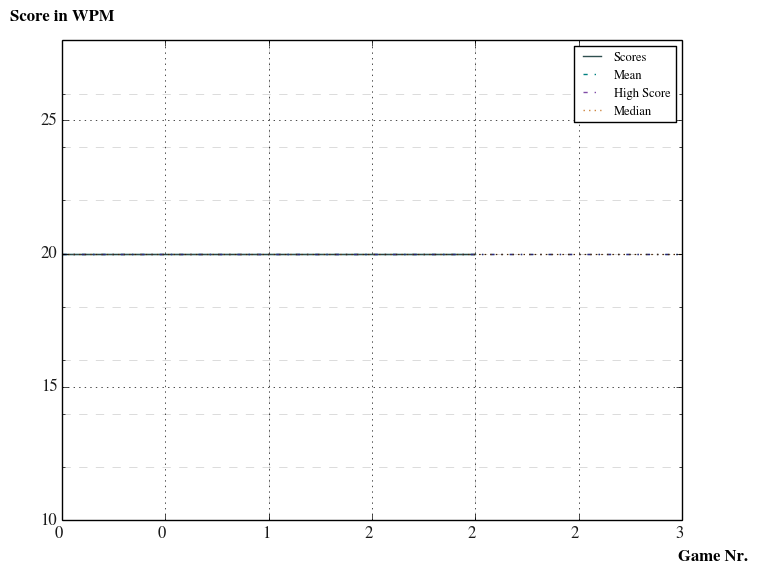
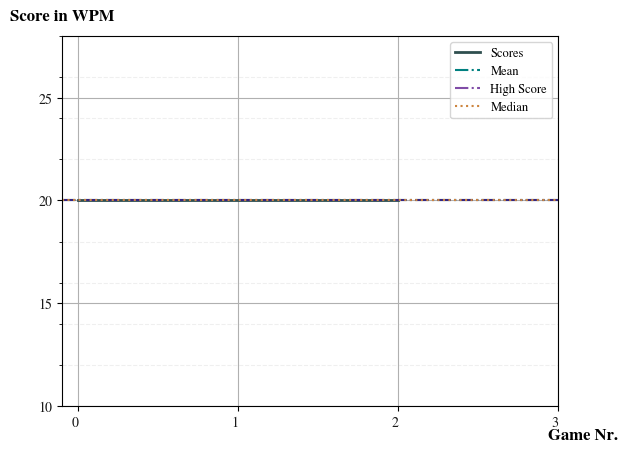
changing the making of evolution graph

diff --git a/TypeeTypo.py b/TypeeTypo.py
@@ -11,6 +11,11 @@ import PlayerInput as PI
 import sys
 from subprocess import call
 import numpy as np
+import matplotlib.pyplot as plt
+from matplotlib import rcParams
+import datetime
+import csv
+from matplotlib.ticker import FormatStrFormatter
 
 
 #####################
@@ -154,6 +159,65 @@ class Game():
         self.evolution = pygame.image.load('score.png')
         self.restart_variable = False
 
+    def make_graph(self):
+        rcParams['mathtext.fontset'] = 'cm'
+        rcParams['font.family'] = 'STIXGeneral'
+
+        ax1 = plt.subplot(1, 1, 1)
+
+        high_score = score = time = xValues = dates = []
+
+        with open('Media/score.csv', 'r') as file:
+            reader = csv.reader(file, delimiter=';')
+            for row in reader:
+                if len(row) == 0:
+                    continue
+                else:
+                    date = str(row[0])
+                    date = date.replace('-', '/')
+                    dates.append(date)
+
+        n = len(dates) - 1
+
+        if len(dates) > 5:
+            score, time = np.loadtxt('Media/score.csv', skiprows=4, usecols=(1, 2), unpack=True, delimiter=';')
+
+        else:
+            score, time = np.loadtxt('Media/score.csv', skiprows=1, usecols=(1, 2), unpack=True, delimiter=';')
+
+        high_score = max(score)
+        xValues = np.arange(len(score))
+        average = np.mean(score)
+        median = np.median(score)
+
+        # Plotting values
+        ax1.xaxis.set_major_formatter(FormatStrFormatter('%.0f'))
+        ax1.plot(xValues, score, color='darkslategrey', label='Scores', linewidth=2)
+        ax1.axhline(y=average, linestyle='dashdot', label='Mean', color='teal')
+        ax1.axhline(y=high_score, linestyle='dashdot', label='High Score', color='indigo', alpha=0.7)
+        ax1.axhline(y=median, linestyle=':', label='Median', color='peru', alpha=1)
+        plt.xticks(ha='right', color='k', alpha=0.9)
+        plt.yticks(color='k', alpha=0.9)
+
+        # Setting labels
+        plt.locator_params(nbins=6)
+        ax1.set_xlabel('Game Nr.', fontsize=12, fontweight='bold')
+        ax1.xaxis.set_label_coords(1.05, -0.06)
+        ax1.set_ylabel('Score in WPM', rotation=0, fontsize=12, fontweight='bold')
+        ax1.yaxis.set_label_coords(0, 1.035)
+        ax1.fill_between(xValues, score, average, color='teal', alpha=0.3)
+
+        # Setting grid and legend
+        ax1.grid(True)
+        grid_x_ticks = np.arange(0, xValues[len(xValues) - 1] + 2, 1)
+        grid_y_ticks = np.arange(round(min(score) - 10, -1), high_score + 10, 2)
+        ax1.set_xticks(grid_x_ticks, minor=True)
+        ax1.set_yticks(grid_y_ticks, minor=True)
+        ax1.grid(which='minor', alpha=0.2, linestyle='--')
+        ax1.legend(loc='upper right', ncol=1, prop={'size': 9})
+
+        # Showing and saving
+        plt.savefig('score.png', bbox_inches='tight')
 
 
     #####################
@@ -316,7 +380,7 @@ def draw_menu_screen(screen, game, buttons):
     return
 
 def menu_screen(screen, game):
-    try:
+    '''try:
         call(["python3", "evolution.py"])
     except:
         print('')
@@ -324,7 +388,7 @@ def menu_screen(screen, game):
     try:
         call(["python", "evolution.py"])
     except:
-        print('')
+        print('')'''
     buttons = game.get_menu_buttons()
     while(True):
         game.clock.tick(game.max_FPS)
@@ -384,6 +448,7 @@ def restart2():
     game = Game()
     screen = game.set_screen()
     game.set_player_input()
+    game.make_graph()
 
     menu_screen(screen, game)
     start_screen(screen, game)
@@ -395,6 +460,7 @@ def restart():
     game = Game()
     screen = game.set_screen()
     game.set_player_input()
+    game.make_graph()
 
     menu_screen(screen, game)
     start_screen(screen, game)
@@ -406,6 +472,7 @@ def main():
     game = Game()
     screen = game.set_screen()
     game.set_player_input()
+    game.make_graph()
 
     title_screen(screen, game)
     menu_screen(screen, game)
